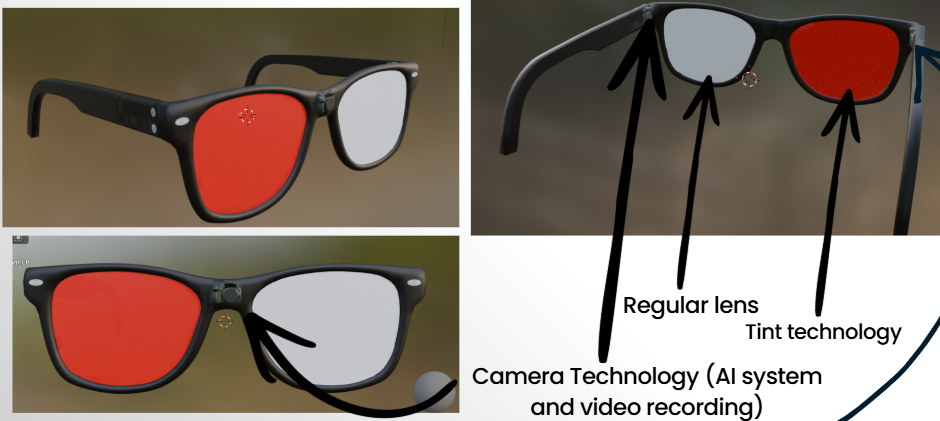
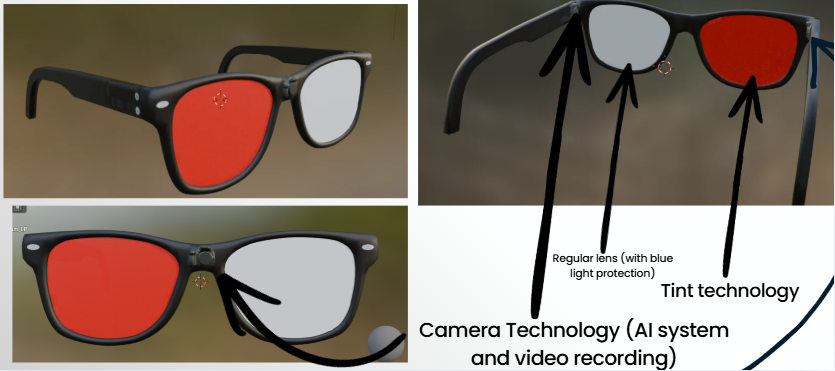
updated product image

diff --git a/index.html b/index.html
@@ -45,7 +45,7 @@
         <div class="card">Detects poor posture during long screen sessions</div>
         <div class="card">Tracks repeated reading patterns and fatigue signs</div>
         <div class="card">Uses smart tinting to regain user attention</div>
-        <div class="card">Includes recording support through a front camera</div>
+        <div class="card">Includes recording tech through a front camera</div>
       </div>
     </div>
   </section>